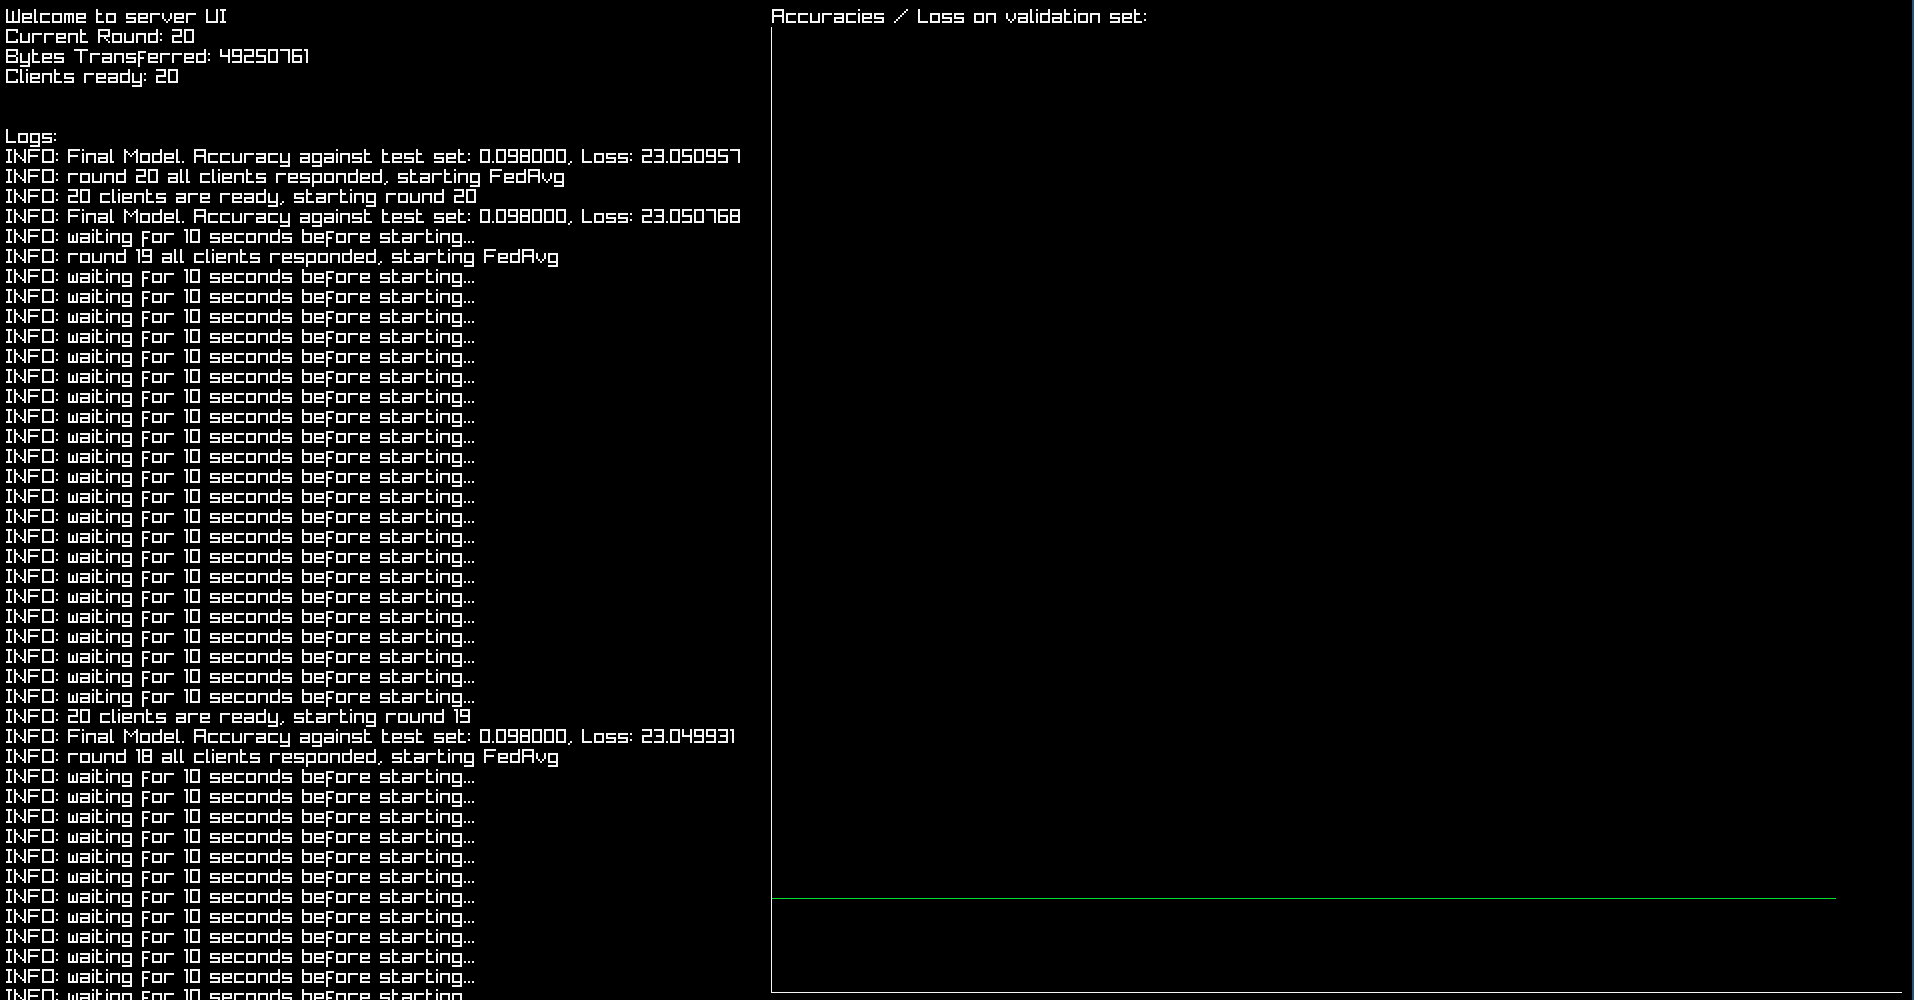
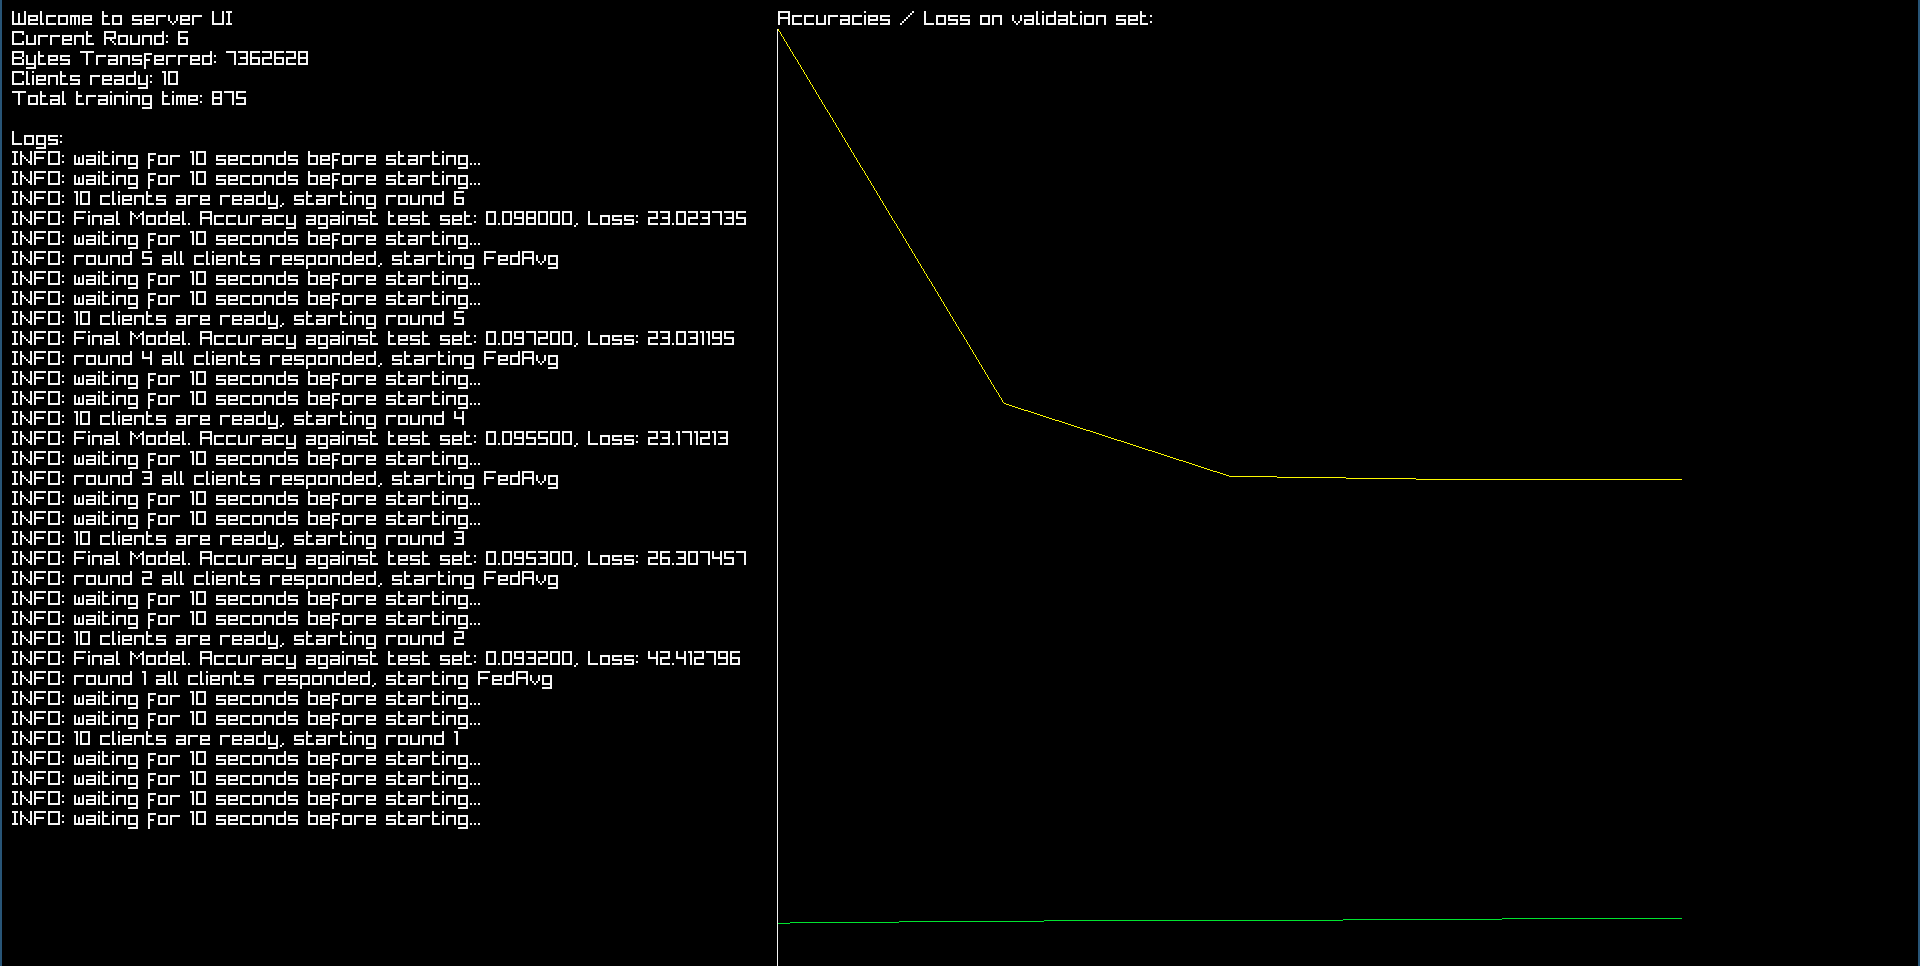
update report with training time metric

diff --git a/report/report.tex b/report/report.tex
@@ -339,8 +339,8 @@ sequence of events for a single round is illustrated in Figure \ref{fig:flround}
 
 \subsubsection{Metrics}
 As part of the framework's aim to track useful metrics, the server keeps track of the total number
-of bytes transferred between the clients and itself during the entire FL lifecycle. This is displayed
-along with additional details such as
+of bytes transferred between the clients and itself during the entire FL lifecycle. The total
+training time in seconds is also tallied. This is displayed along with additional details such as
 the current round, number of ready clients, as well as a graph of the validation set loss and
 accuracy on a simple graphical user interface shown in Figure \ref{fig:gui}.
 
